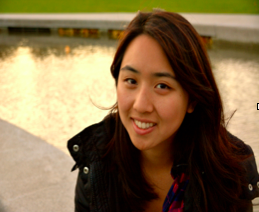
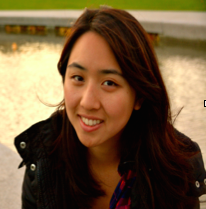
about_us

diff --git a/app/assets/stylesheets/home.sass b/app/assets/stylesheets/home.sass
@@ -8,6 +8,8 @@ $orange: #FF8547
 $teal: #29BBBB
 $purple: #B19CD9
 
+/* HOME
+
 .signIn
 	width: 100%
 	height: 70%
@@ -15,7 +17,7 @@ $purple: #B19CD9
 	background-image: image-url("homeImage.png")
 
 
-input.email, input.password, a.button.postfix
+input.email, input.password, a.button.postfix, 
 	margin-top: 20px
 
 h1.title
@@ -34,3 +36,44 @@ h1.text
 .subtitle
 	text-align: center
 	margin-top: -10px
+
+/* ABOUT US
+
+.biopic
+	width: 200px
+	height: 200px
+
+.aboutHead
+	color: $orange
+
+.about_us
+	background-image: image-url("aboutusshoes.jpg")
+	background-size: cover
+	width: 100%
+	height: 70%
+
+.contact_us
+	margin-top: 20px
+
+
+h1.about
+	background: #fff
+	color: $orange
+	margin-top: 100px
+	opacity: 0.8
+	width: 350px
+	font-size: 3.5rem
+	padding: 15px
+
+.summary
+	padding-top: 20px
+	padding-bottom: 20px
+
+.send
+	margin-top: 0 !important
+	
+
+.sendemail
+	float: right
+	padding-bottom: 20px
+
